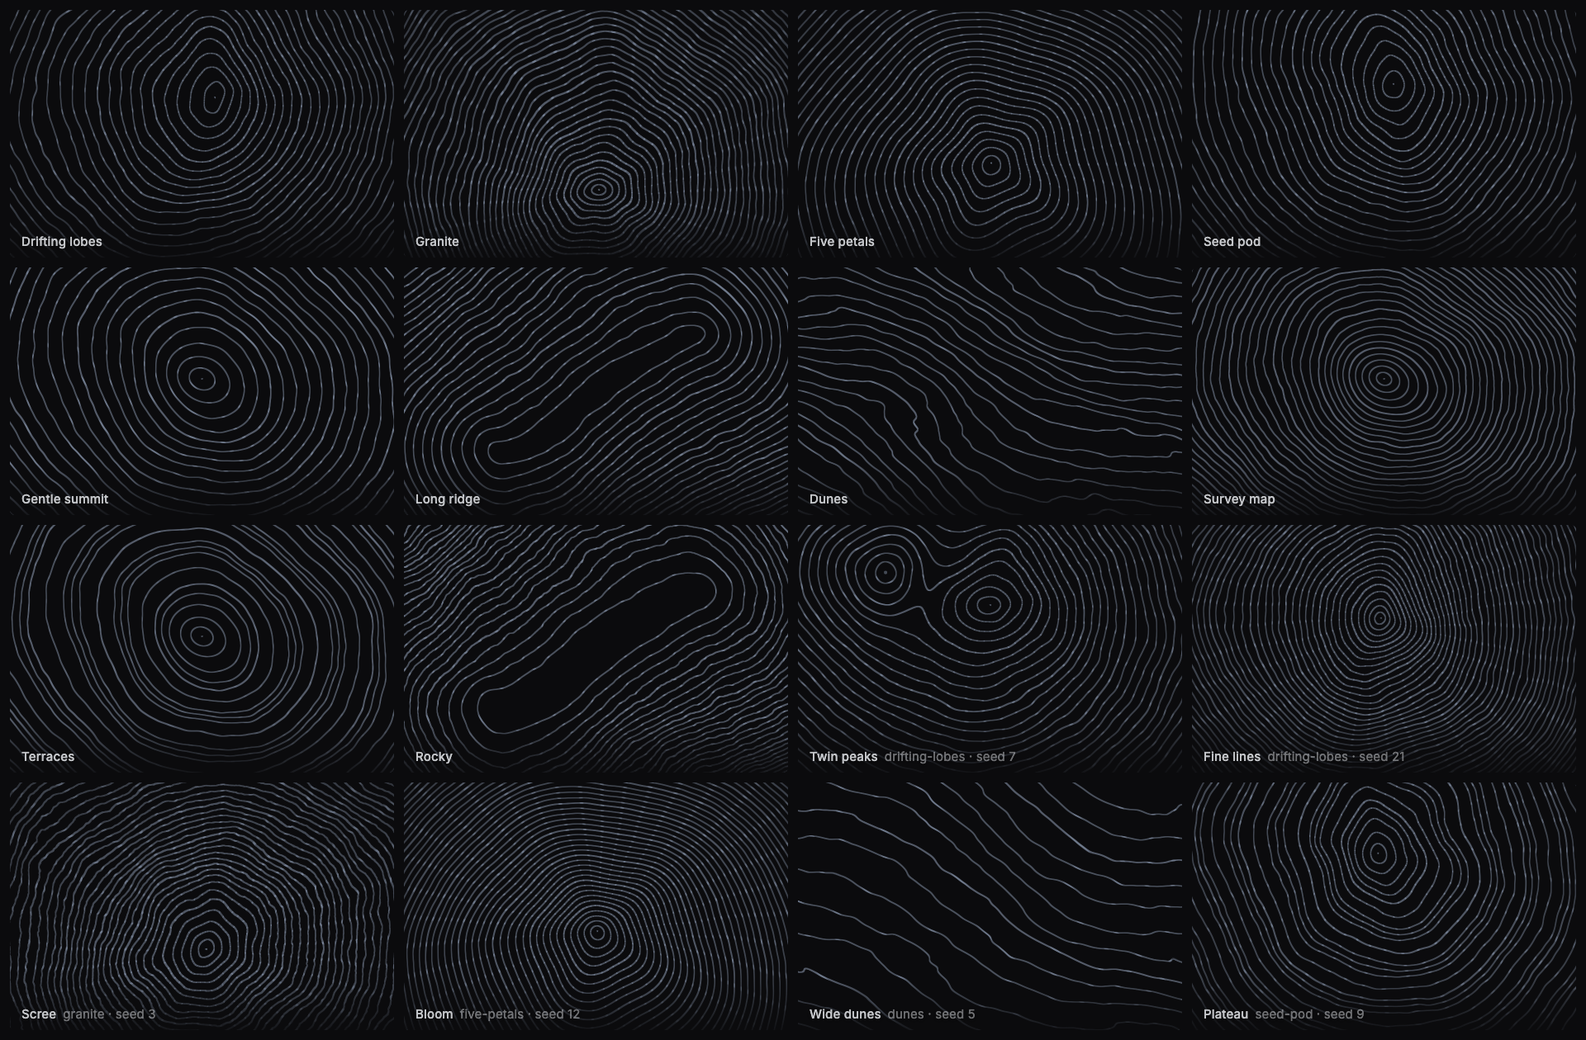
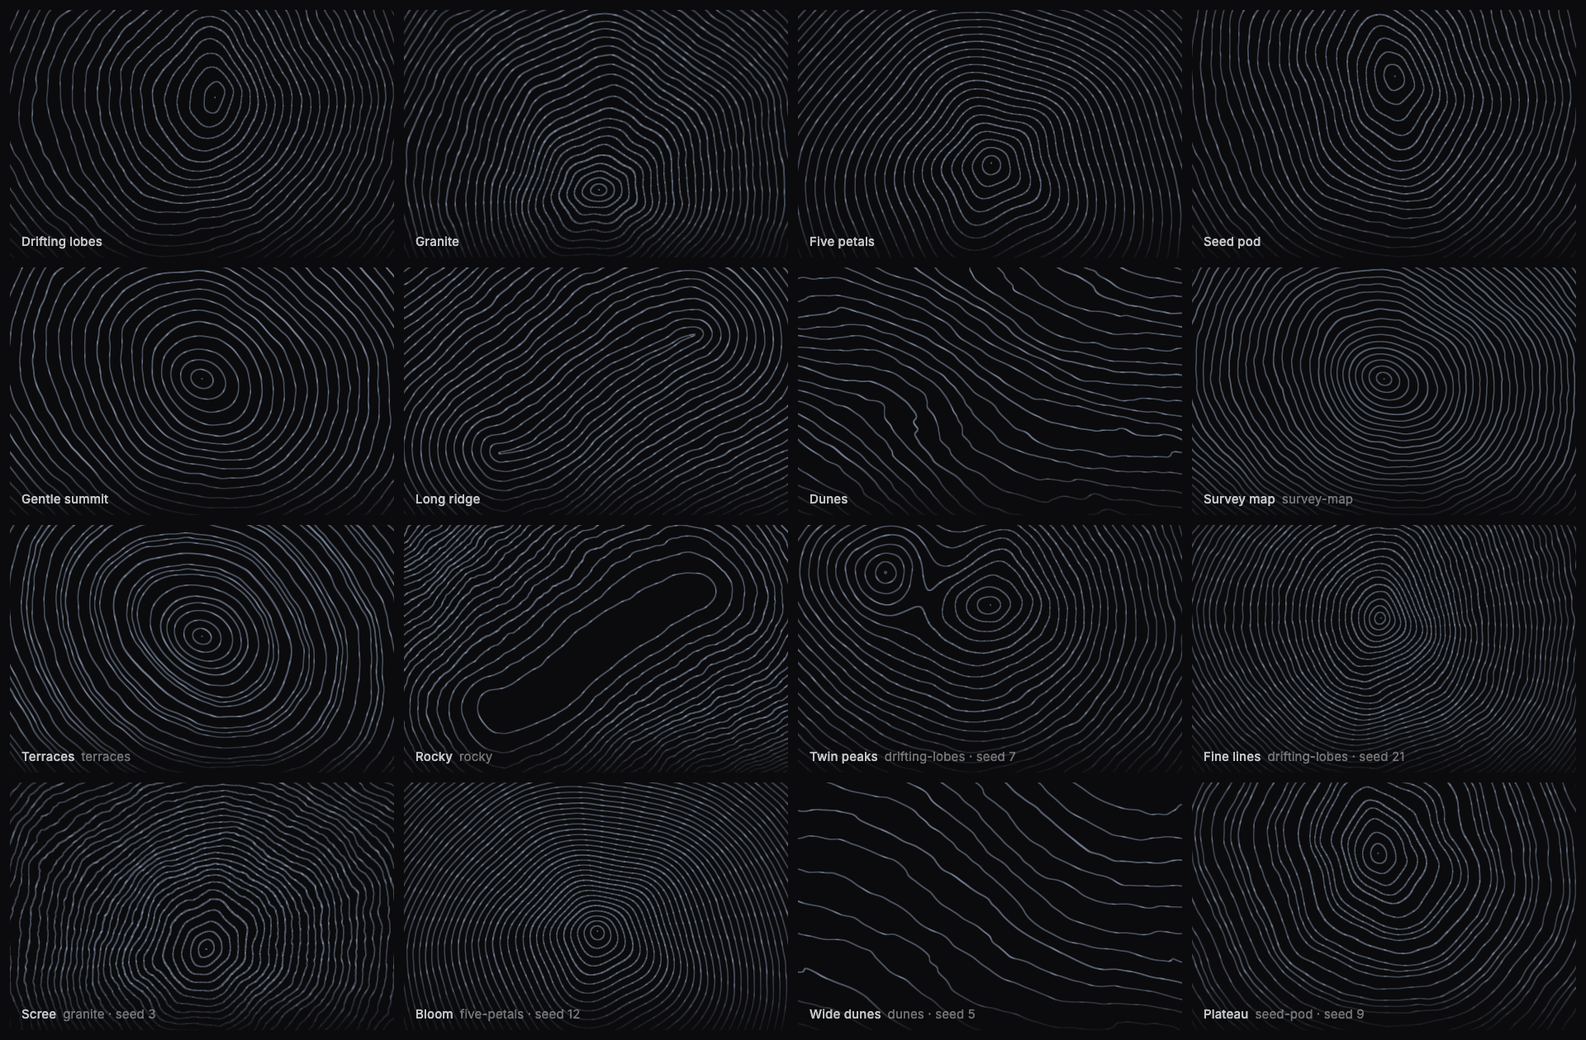
document the looks and the look setting
- the guide's looks section lists every look by id, name, shape and colours, with a picture of each
- scripts/looks-grid.mjs draws that picture, and the shapes image takes its three looks by id
- the changelog, the design doc, the readme and the architecture diagram name looks in place of presets

Changed region(s): [[0.0, 0.0, 0.5, 0.7429], [0.75, 0.0, 1.0, 0.2476], [0.8125, 0.4643, 0.8438, 0.4952]]

diff --git a/assets/images/diagrams/library-architecture.html b/assets/images/diagrams/library-architecture.html
@@ -23,7 +23,7 @@ svg { width: 100%; min-width: 960px; display: block; }
 <div class="diagram-container">
 <svg viewBox="0 0 960 680" xmlns="http://www.w3.org/2000/svg" role="img" aria-labelledby="library-architecture-title library-architecture-desc">
 <title id="library-architecture-title">Library architecture</title>
-<desc id="library-architecture-desc">How the topographic library fits together: the web component, React component and playground call one public API, which also takes an optional heightfield. Settings resolve from the params table, shapes and presets, and one WebGL renderer draws them as a 2D contour shader or a 3D terrain pass, whose frames record() encodes as a video.</desc>
+<desc id="library-architecture-desc">How the topographic library fits together: the web component, React component and playground call one public API, which also takes an optional heightfield. Settings resolve from the params table, shapes and looks, and one WebGL renderer draws them as a 2D contour shader or a 3D terrain pass, whose frames record() encodes as a video.</desc>
 <defs>
 <linearGradient id="tile" x1="0" y1="0" x2="0" y2="680" gradientUnits="userSpaceOnUse"><stop offset="0" stop-color="#222529"/><stop offset="1" stop-color="#131417"/></linearGradient>
 <linearGradient id="rim1" x1="0" y1="0" x2="0" y2="680" gradientUnits="userSpaceOnUse"><stop offset="0" stop-color="#fff" stop-opacity="0.32"/><stop offset="1" stop-color="#fff" stop-opacity="0.08"/></linearGradient>
@@ -61,7 +61,7 @@ svg { width: 100%; min-width: 960px; display: block; }
 <rect x="695.9" y="231" width="48.2" height="12" fill="url(#tile)"/>
 <text x="720.0" y="240" fill="#6b7078" font-size="8" font-family="'IBM Plex Mono', ui-monospace, monospace" text-anchor="middle" letter-spacing="0.06em">RESOLVED</text>
 <rect x="608.0" y="179" width="43.0" height="12" fill="url(#tile)"/>
-<text x="629.5" y="188" fill="#6b7078" font-size="8" font-family="'IBM Plex Mono', ui-monospace, monospace" text-anchor="middle" letter-spacing="0.06em">PRESETS</text>
+<text x="629.5" y="188" fill="#6b7078" font-size="8" font-family="'IBM Plex Mono', ui-monospace, monospace" text-anchor="middle" letter-spacing="0.06em">LOOKS</text>
 <rect x="848.0" y="179" width="64.1" height="12" fill="url(#tile)"/>
 <text x="880.0" y="188" fill="#6b7078" font-size="8" font-family="'IBM Plex Mono', ui-monospace, monospace" text-anchor="middle" letter-spacing="0.06em">INK · PAPER</text>
 <rect x="684.5" y="295" width="43.0" height="12" fill="url(#tile)"/>
@@ -105,7 +105,7 @@ svg { width: 100%; min-width: 960px; display: block; }
 <rect x="528.5" y="96.5" width="28" height="12" fill="none" stroke="#6b7078" stroke-opacity="0.6" stroke-width="0.8"/>
 <text x="542.5" y="105.5" fill="#6b7078" font-size="8" font-family="'IBM Plex Mono', ui-monospace, monospace" text-anchor="middle" letter-spacing="0.08em">DATA</text>
 <text x="600.0" y="126" fill="#e4e6e9" font-size="12" font-weight="600" font-family="'Inter Tight', system-ui, sans-serif" text-anchor="middle">Params + shapes</text>
-<text x="600.0" y="141" fill="#8b9097" font-size="9" font-family="'IBM Plex Mono', ui-monospace, monospace" text-anchor="middle">shapes · presets</text>
+<text x="600.0" y="141" fill="#8b9097" font-size="9" font-family="'IBM Plex Mono', ui-monospace, monospace" text-anchor="middle">shapes · looks</text>
 <path d="M520 218Q520 216 522 216H666L680 230V278Q680 280 678 280H522Q520 280 520 278Z" fill="#ffffff"/>
 <path d="M666 216L680 230H666Z" fill="#b9bec4"/>
 <rect x="528.5" y="224.5" width="28" height="12" fill="none" stroke="#4f545b" stroke-opacity="0.6" stroke-width="0.8"/>

diff --git a/docs/guide.md b/docs/guide.md
@@ -7,7 +7,7 @@ This guide explains how to use topographic. Each section covers one topic. To tr
 - [Sizing and layering](#sizing-and-layering)
 - [Settings](#settings)
 - [Shapes](#shapes)
-- [Presets](#presets)
+- [Looks](#looks)
 - [Colours, CSS variables and dark mode](#colours-css-variables-and-dark-mode)
 - [Seed](#seed)
 - [Snapshots and PNG export](#snapshots-and-png-export)
@@ -72,7 +72,7 @@ The call adds a canvas inside `element`. The canvas fills the element, so give t
 <topographic-view shape="long-ridge" line-count="36" peaks="2" theme="dark"></topographic-view>
 ```
 
-- Every setting has an HTML attribute (listed in [Settings](#settings)). There are also `shape`, `seed`, `theme`, `ink` and `paper`.
+- Every setting has an HTML attribute (listed in [Settings](#settings)). There are also `look`, `shape`, `seed`, `theme`, `ink` and `paper`.
 - A changed attribute applies right away. A removed attribute goes back to the shape's default.
 - `element.topographic` is the instance. `element.snapshot(opts)` is a shortcut to its `snapshot`.
 - The element is `display: block`. Size and position it with CSS, as [Sizing and layering](#sizing-and-layering) shows.
@@ -90,7 +90,7 @@ import { Topography, useTopography } from 'topographic-react';
 />
 ```
 
-- Props: `shape`, `seed`, `lines`, `terrain`, `motion`, `layout`, `theme`, `mode`, `elevation`, `extent`, `detail`, `quality`, `camera`, `view2d`, `options`, `onReady`, plus any `div` props. Children are drawn on top.
+- Props: `look`, `shape`, `seed`, `lines`, `terrain`, `motion`, `layout`, `theme`, `mode`, `elevation`, `extent`, `detail`, `quality`, `camera`, `view2d`, `options`, `onReady`, plus any `div` props. Children are drawn on top.
 - `style` is React's normal inline style. The land shape is the `shape` prop.
 - `TopographyInstance` is the type of the instance.
 - Each group of settings updates only when its values change. A new object with the same values does nothing.
@@ -138,6 +138,7 @@ The settings are in groups. Pass only the values you want to change:
 
 ```js
 {
+  look: 'survey-map',
   shape: 'dunes',
   seed: 0,
   lines:   { count, width, opacity, indexEvery },
@@ -148,6 +149,8 @@ The settings are in groups. Pass only the values you want to change:
   quality: 'auto',
 }
 ```
+
+`look` is a named design, described in [Looks](#looks). The other settings override its values.
 
 A value outside its range is moved to the nearest limit. Whole-number settings are rounded. A value that is not a number uses the default. Some shapes have their own defaults. For example, dunes uses a lighter centre fade.
 
@@ -237,9 +240,9 @@ An unknown shape uses `drifting-lobes` instead and prints one warning in the con
 
 ### The shapes image
 
-![Sixteen dark-mode tiles: the seven shapes, the three presets Survey map, Terraces and Rocky, and six seed variants](../assets/screenshots/styles.png)
+![Sixteen dark-mode tiles: the seven shapes, the three looks Survey map, Terraces and Rocky, and six seed variants](../assets/screenshots/styles.png)
 
-The image shows every shape and preset in dark mode. Each tile is the frame at 4 seconds. The first ten tiles are the shapes and presets, by name. The last six tiles each use a shape with a different seed and one or two changed settings:
+The image shows every shape and three [looks](#looks) in dark mode. Each tile is the frame at 4 seconds. The first seven tiles are the shapes with their own defaults. The next three are looks, by name and id, in the same tile colours as the shapes. The last six tiles each use a shape with a different seed and one or two changed settings:
 
 | Tile | Settings |
 | --- | --- |
@@ -250,27 +253,80 @@ The image shows every shape and preset in dark mode. Each tile is the frame at 4
 | Wide dunes | `dunes`, seed 5, line count 16, line width 0.4 |
 | Plateau | `seed-pod`, seed 9, terracing 0.6 |
 
-The tiles are small, so every tile uses a few extra settings to make the shapes easy to see. The summit is in the centre (`layout.anchor` 1). The centre fade is off (`layout.fade` 0). The lines are brighter and a little thicker: line opacity 0.85, line width 0.4 and ink `#9fb0cc`. To make the image again, run `node scripts/styles-grid.mjs`.
+The tiles are small, so every tile uses a few extra settings to make the shapes easy to see. The summit is in the centre (`layout.anchor` 1). The centre fade is off (`layout.fade` 0). The lines are brighter and a little thicker: line opacity 0.85, line width 0.4, and ink `#9fb0cc` on paper `#0b0b0d`. To make the image again, run `node scripts/styles-grid.mjs`.
 
-## Presets
+## Looks
 
-A preset is a named starting point. It is a shape plus a few settings. The presets are exported as `PRESETS`.
-
-- **Drifting lobes**: `{"shape":"drifting-lobes"}`
-- **Granite**: `{"shape":"granite","lines":{"count":34},"terrain":{"roughness":0.15}}`
-- **Five petals**: `{"shape":"five-petals"}`
-- **Seed pod**: `{"shape":"seed-pod","motion":{"speed":0.7}}`
-- **Gentle summit**: `{"shape":"gentle-summit","lines":{"count":26}}`
-- **Long ridge**: `{"shape":"long-ridge","terrain":{"sharpness":0.4}}`
-- **Dunes**: `{"shape":"dunes","motion":{"sparkle":0.3}}`
-- **Survey map**: `{"shape":"gentle-summit","lines":{"count":44,"indexEvery":5,"opacity":0.55},"terrain":{"peaks":3,"spread":0.6,"roughness":0.2},"motion":{"speed":0.4,"sparkle":0}}`
-- **Terraces**: `{"shape":"gentle-summit","terrain":{"terracing":0.8,"peaks":2},"motion":{"sparkle":0.2}}`
-- **Rocky**: `{"shape":"long-ridge","terrain":{"roughness":0.55,"sharpness":0.3},"lines":{"count":36}}`
+A look is a named, finished design.
+It sets the shape, the seed, the lines, terrain, motion and layout values, the colours and a 3D camera pose.
+The playground's dock shows the same looks, in the same order.
+Pass a look's id as the `look` setting:
 
 ```js
-import { PRESETS, createTopography } from 'topographic';
-createTopography(el, PRESETS.find((p) => p.name === 'Survey map').settings);
+createTopography(el, { look: 'survey-map' });
 ```
+
+```html
+<topographic-view look="rose-pod"></topographic-view>
+```
+
+```tsx
+<Topography look="sea-dunes" />
+```
+
+The other settings next to `look` override the look's values.
+A setting the look leaves out keeps its default.
+For example, `{ look: 'rose-pod', lines: { count: 40 } }` draws Rose pod with 40 lines, and keeps its colours, seed and line width.
+A `shape` next to a look draws the look's values on that shape.
+
+In `update()`, a look replaces the design and keeps the view.
+The view is `mode`, `elevation`, `extent`, `detail`, `quality`, `view2d`, and the camera motion and pan.
+The other values in the same update apply on top of the look.
+In React, a new `look` prop applies the other props again on top of the new look.
+
+An unknown look is ignored, and the console shows one warning.
+
+The looks are exported as `LOOKS`, with the type `Look`.
+`findLook(id)` returns one look, or `undefined`.
+`LookId` is the type of the ids.
+In a playground link, `look=` takes the same ids, such as `?look=night-lobes&lc=40`.
+
+![Every look in its own colours, with its name and id: twelve dark looks, twelve light looks, then Survey map and Rocky in dark mode](../assets/screenshots/looks.webp)
+
+Each tile is the 2D frame at 4 seconds.
+To make the image again, run `node scripts/looks-grid.mjs`.
+
+| Id | Name | Shape | Colours |
+| --- | --- | --- | --- |
+| `survey-ridge` | Survey ridge | `long-ridge` | dark, ink `#e8e6e1` on `#141414` |
+| `fine-granite` | Fine granite | `granite` | dark, ink `#d7d2c8` on `#0b0b0d` |
+| `wide-lobes` | Wide lobes | `drifting-lobes` | dark, ink `#c9c2b4` on `#12141a` |
+| `rose-pod` | Rose pod | `seed-pod` | dark, ink `#f0b2a8` on `#1a1214` |
+| `terraces` | Terraces | `gentle-summit` | dark, ink `#e0b089` on `#16130f` |
+| `high-dunes` | High dunes | `dunes` | dark, ink `#c6d6a8` on `#101614` |
+| `moss-granite` | Moss granite | `granite` | dark, ink `#9dcec0` on `#101614` |
+| `sea-dunes` | Sea dunes | `dunes` | dark, ink `#8ec4d4` on `#0e1a22` |
+| `night-flower` | Night flower | `five-petals` | dark, ink `#a9c7e4` on `#10151c` |
+| `night-lobes` | Night lobes | `drifting-lobes` | dark, ink `#9fb0cc` on `#0b0b0d` |
+| `violet-pod` | Violet pod | `seed-pod` | dark, ink `#b9a4e0` on `#16131a` |
+| `ink-petals` | Ink petals | `five-petals` | dark, ink `#cbb6ea` on `#16131a` |
+| `stepped-petals` | Stepped petals | `five-petals` | light, ink `#6b3050` on `#f6eef2` |
+| `day-lobes` | Day lobes | `drifting-lobes` | light, ink `#5c3348` on `#f6eef2` |
+| `still-dunes` | Still dunes | `dunes` | light, ink `#7a3e2e` on `#f3ece4` |
+| `rocky-spine` | Rocky spine | `long-ridge` | light, ink `#5c3a28` on `#efe6d6` |
+| `pale-dunes` | Pale dunes | `dunes` | light, ink `#6b4630` on `#efe6d6` |
+| `stone-grain` | Stone grain | `granite` | light, ink `#3a342c` on `#e7e2d8` |
+| `open-pod` | Open pod | `seed-pod` | light, ink `#2c2c2a` on `#f4f1ea` |
+| `quiet-hill` | Quiet hill | `gentle-summit` | light, ink `#2c2c2a` on `#f7f4ee` |
+| `bloom` | Bloom | `five-petals` | light, ink `#3c4a36` on `#f3efe6` |
+| `soft-summit` | Soft summit | `gentle-summit` | light, ink `#1e4650` on `#e5eef0` |
+| `paper-ridge` | Paper ridge | `long-ridge` | light, ink `#3d4c63` on `#f7f4ee` |
+| `centred-lobes` | Centred lobes | `drifting-lobes` | light, ink `#243656` on `#e7eef6` |
+| `survey-map` | Survey map | `gentle-summit` | Follows the page theme |
+| `rocky` | Rocky | `long-ridge` | Follows the page theme |
+
+Survey map and Rocky set no colours, so they follow the page's light or dark theme and the CSS variables.
+The image shows them in dark mode.
 
 ## Colours, CSS variables and dark mode
 
@@ -383,7 +439,7 @@ The playground (`apps/playground`) is the project's live demo page.
   - The map loads only when you open it. It needs a network connection.
   - A link that opens a place hides the canvas until the heights arrive, so the default terrain does not flash. Contour rings draw in while it waits, on a desktop and on a phone. With reduced motion, the rings stay still. The page sets `data-loading` to `terrain`, and `get_region` returns `loading: true` with the message `Loading terrain`.
 - The URL stores the settings as short keys, so a link shows the same background.
-  - It stores only the values that are different from the shape's defaults or from a named look: `?s=dunes&lc=24`, `?look=night-lobes&mode=3d`.
+  - It stores only the values that are different from the shape's defaults or from a [look](#looks): `?s=dunes&lc=24`, `?look=night-lobes&mode=3d`. `look=` takes the library's look ids, and links made before 0.6.0 use the same ids.
   - Colours have no `#` (`ink=9fb0cc`).
   - 3D uses the library defaults unless the URL changes them: endless, azimuth 349.7, angle 33.6 and distance 1.92.
   - A pan away from the centre adds `px` and `pz`. A 2D pan or zoom adds `vx`, `vy` and `vz`.
@@ -444,9 +500,9 @@ The playground is a Cloudflare Worker with static assets. With Workers Builds, a
 | Tool | What it does |
 |---|---|
 | `identify_agent` | Optional. The agent gives its `name` and a `purpose`, both from fixed lists, so analytics count it apart from people. Any other value is an error. |
-| `list_shapes` | Lists the shapes and presets, with their ids and descriptions. |
+| `list_shapes` | Lists the shapes, with their ids and descriptions, and the looks, with their ids and settings. |
 | `get_settings` | Returns the current settings, the shortest config JSON, and the graphics tier that is drawing (`quality`, `fps`, `frameMs`, `mesh`). |
-| `set_settings` | Applies some settings. The land shape is `shape`; the old key `style` still works until the next release. Reports values that were moved into range and keys that were ignored. |
+| `set_settings` | Applies some settings. `look` applies a look by id, and the other keys in the same call override it. The land shape is `shape`; the old key `style` still works until the next release. Reports values that were moved into range and keys that were ignored. |
 | `randomize` | Picks a new random seed. With `{ "shape": true }`, it also picks a random shape. |
 | `take_screenshot` | Returns a PNG of the background as a data URL, 1200 px wide by default. An optional `region` (`{ x, y, width, height }`, as fractions of the view) keeps only that part. |
 | `record_video` | Records a short 3D video of the current terrain with a moving camera. Returns it as an MP4 or WebM data URL. The default is a 2 second orbit at 640×360. |

diff --git a/docs/low-level-design.md b/docs/low-level-design.md
@@ -13,7 +13,7 @@ const topography = createTopography(el, { shape: 'dunes', lines: { count: 30 } }
 3. A `seed` varies a shape reproducibly.
 4. Colours: `ink` and `paper`, taken from CSS variables, with automatic dark mode. Paper can be transparent.
 5. Settings update live, without remounting.
-6. The playground has sliders, presets, randomize, state in the URL, and exports an embed snippet and a PNG.
+6. The playground has sliders, looks, randomize, state in the URL, and exports an embed snippet and a PNG.
 7. Out-of-range values are clamped. An unknown shape falls back to the default shape and logs one warning.
 8. Reduced motion shows one still frame. Animation pauses when off-screen or when the tab is hidden. A pixel budget caps GPU cost.
 9. If WebGL is missing or the context is lost, the element shows the paper colour. A restored context resumes rendering.
@@ -27,7 +27,7 @@ const topography = createTopography(el, { shape: 'dunes', lines: { count: 30 } }
 - **Renderer**: owns the canvas, the WebGL program, the frame loop, observers and the pixel budget. It is created by `createTopography` and is the only thing that touches WebGL.
 - **Settings**: the full, validated value object (`shape`, `seed`, `lines`, `terrain`, `motion`, `layout`, `theme`). The `params` table defines each field's name, range, default and uniform slot.
 - **Shape**: data, not code. `{ id, name, index, notes }`. `index` selects a branch in the one combined shader.
-- **Preset**: data. `{ name, settings: Partial<Settings> }`. Presets live in core, so every wrapper shares them.
+- **Look**: data. `{ id, name, settings: Partial<Settings> }`, a named, finished design. Looks live in core, so every wrapper and the playground's dock share them. The `look` setting names one by id.
 - **Theme**: resolves `ink` and `paper` from settings, then CSS variables (`--topographic-ink`, `--topographic-paper`), then light/dark defaults.
 - **`<topographic-view>`**: a custom element. Attributes become Settings, and it holds one Renderer.
 - **React `<Topography>`** and **`useTopography`**: props become Settings, and they hold one Renderer.
@@ -43,7 +43,7 @@ packages/core/src/
   params.ts              the single table: name, group, range, default, uniform slot
   settings.ts            resolve, clamp, merge, serialize to attributes and URL
   shapes.ts           Shape records (7)
-  presets.ts             Preset records
+  looks.ts               Look records
   theme.ts               ink/paper resolution, dark mode, CSS variables
   shader/common.glsl.ts  noise, smooth-min, line drawing
   shader/topographic.glsl.ts  combined height field, branch per shape
@@ -87,7 +87,7 @@ Ranges are 0–1 except counts. The land shape is `shape` everywhere: in setting
 
 ## Traced flow
 **Happy path.** `createTopography(el, { shape: 'dunes' })` runs these steps:
-1. Settings are resolved: defaults, then the preset, then the input; values are clamped.
+1. Settings are resolved: defaults, then the shape's defaults, then the look, then the input; values are clamped.
 2. Theme reads the CSS variables.
 3. The Renderer compiles the shader and maps Settings to uniforms.
 4. Observers start, and the frame loop draws.
@@ -105,14 +105,14 @@ Ranges are 0–1 except counts. The land shape is `shape` everywhere: in setting
 |---|---|
 | A setting | `params.ts` row, plus its use in `topographic.glsl.ts` |
 | A shape | `shapes.ts` record, plus a branch in `topographic.glsl.ts` |
-| A preset | `presets.ts` record only |
+| A look | `looks.ts` record and its `LookId` |
 | A wrapper (Vue, Svelte) | a new package calling `createTopography` |
 | An export format | `apps/playground/src/exporting.tsx` (SVG later needs a CPU port of the height field) |
 
 ## Decisions
 - **One combined shader; the shape is data.** It's simpler to ship and to switch shapes live. The cost is that one shader carries every branch.
 - **Grouped, readable setting names, normalised to 0–1.** This is the public contract and is costly to change later.
-- **Presets in core**, shared by all wrappers.
+- **Looks in core**, shared by all wrappers and the playground.
 - **Colours through CSS variables**, with dark mode and transparent paper. Palettes come later.
 - **Pixel budget** (minimum pixel ratio plus maximum pixel count) instead of a simple DPR cap.
 - **Fallback, not exceptions,** when WebGL is missing or lost.

diff --git a/CHANGELOG.md b/CHANGELOG.md
@@ -15,6 +15,11 @@ It is a clean break: the old names are gone, with no deprecated aliases.
 - Playground: the WebMCP tool `list_styles` is now `list_shapes`, and `randomize` takes `shape: true`. `set_settings` takes `shape`, and still takes the old `style` key for this release. Terrains saved with a `style` key load with that value as `shape`.
 - Playground: the Tune › Terrain section with peaks, spread, sharpness and variant is now titled Form.
 - Install lines in the READMEs no longer pin a version. Sizing and layering examples moved to the guide.
+- New `look` setting: a named, finished design by id, such as `look: 'survey-map'`. It is the attribute `look` on `<topographic-view>`, the React prop `look` and the query key `look`. The other settings next to it override its values. An unknown look is ignored with one console warning. In `update()`, a look replaces the design and keeps the view settings.
+- `PRESETS` and `Preset` are now `LOOKS` and `Look`. Each look has an `id`. `findLook(id)` and the type `LookId` are new. The list joins the old presets and the playground's looks: 26 looks, listed in the guide's Looks section.
+- From the old presets, Survey map and Rocky are now the looks `survey-map` and `rocky`. Terraces is now the playground's Terraces look. The presets that were a shape with a few changes are gone; use `shape` for them.
+- Playground: the dock and the `look=` link key use the library's looks. Links made before 0.6.0 keep working, because the ids are the old `look=` values. The dock gains Survey map and Rocky.
+- Playground: `set_settings` takes `look`, and `list_shapes` returns the looks with their ids in place of the presets.
 
 | Old name | New name |
 |---|---|
@@ -35,6 +40,8 @@ It is a clean break: the old names are gone, with no deprecated aliases.
 | `Style` | `Shape` |
 | `StyleId` | `ShapeId` |
 | `DEFAULT_STYLE` | `DEFAULT_SHAPE` |
+| `PRESETS` | `LOOKS` |
+| `Preset` | `Look` |
 | WebMCP `list_styles` | `list_shapes` |
 
 ## 0.5.0

diff --git a/README.md b/README.md
@@ -114,7 +114,7 @@ The [guide](docs/guide.md) lists every setting with its range and default. It al
 
 ## How it works
 
-![How topographic fits together: the web component, the React component and the playground call one public API, which also takes an optional heightfield. Settings resolve from the params table, shapes and presets, and one WebGL renderer draws them as a 2D contour shader or a 3D terrain pass, whose frames record() encodes as video.](assets/images/diagrams/library-architecture.png)
+![How topographic fits together: the web component, the React component and the playground call one public API, which also takes an optional heightfield. Settings resolve from the params table, shapes and looks, and one WebGL renderer draws them as a 2D contour shader or a 3D terrain pass, whose frames record() encodes as video.](assets/images/diagrams/library-architecture.png)
 
 The web component, the React component and the [playground](https://topographic.yahyapak.dev/) all use the same code. One renderer draws both 2D and 3D.
 
